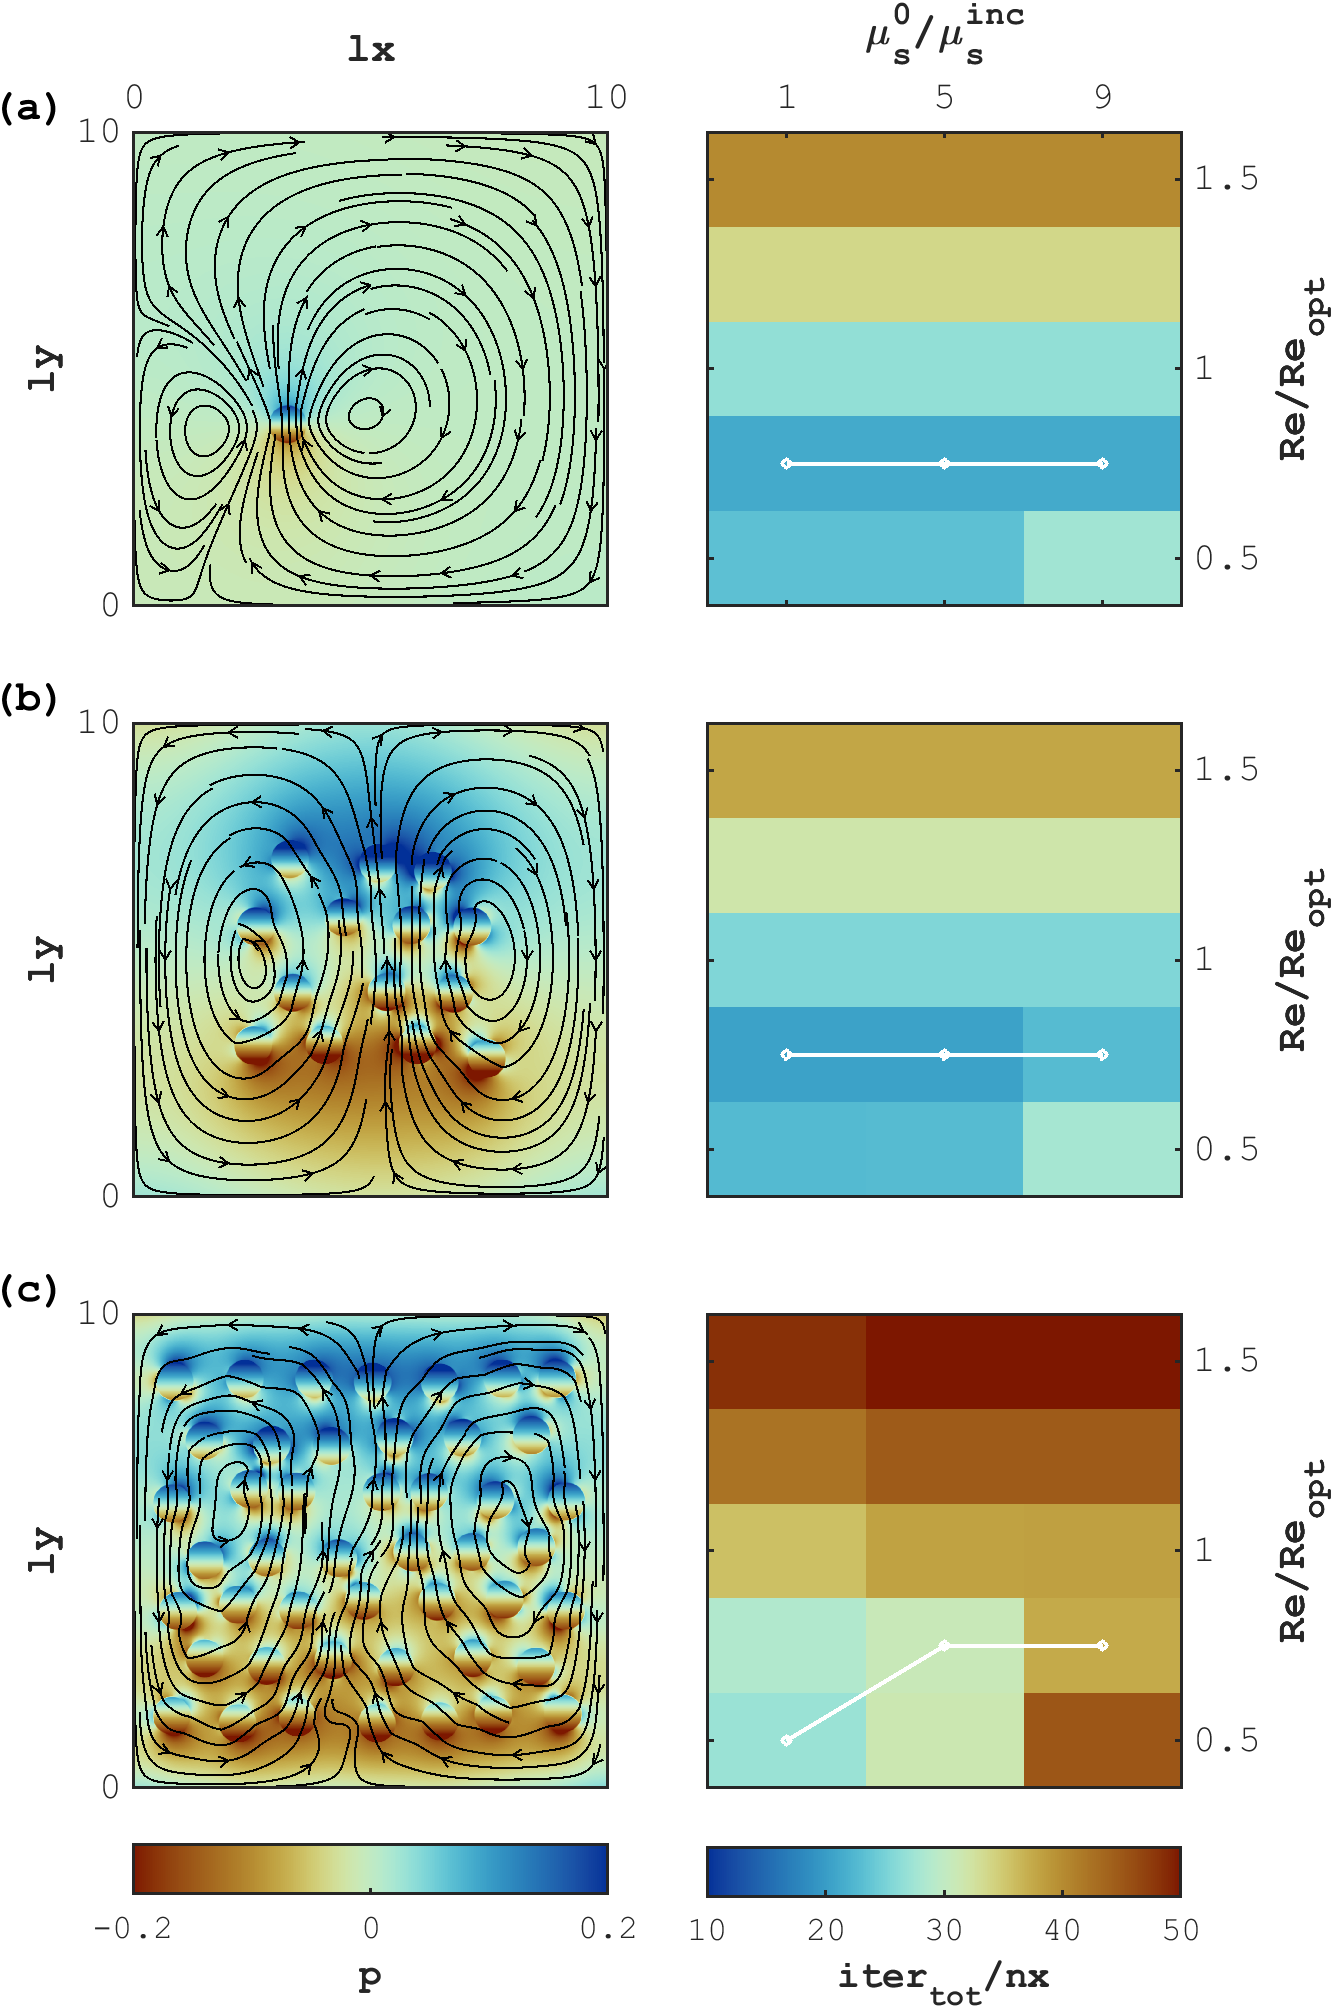
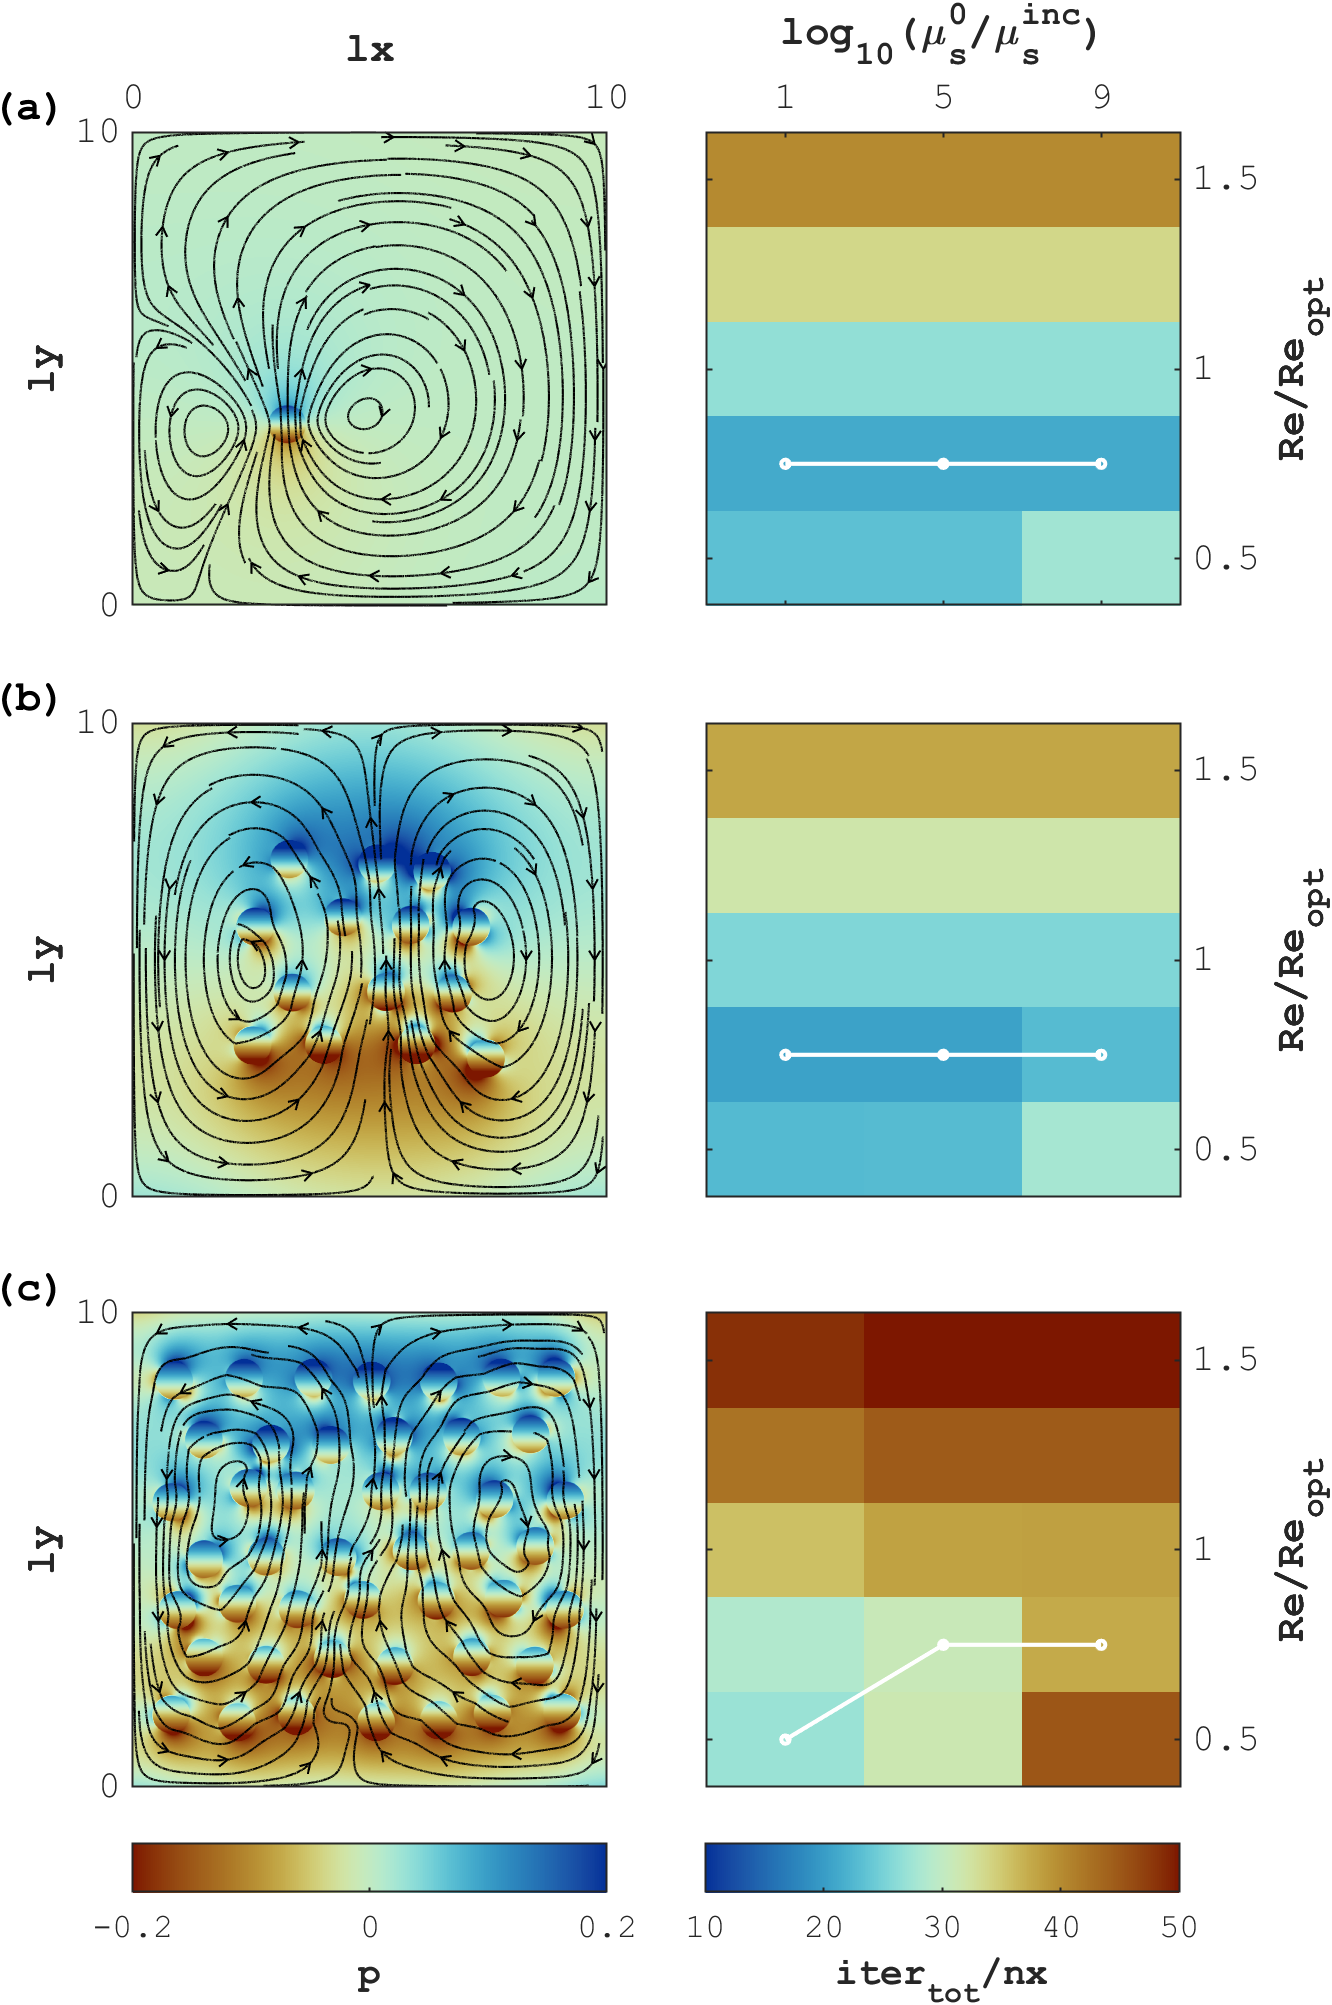
Fix figure title

diff --git a/visu/viz_stokes_param.m b/visu/viz_stokes_param.m
@@ -57,7 +57,7 @@ for ifig = 1:numel(sims)
         hold off
         axis square;caxis([10 50]);
         yticks(0.5:0.5:1.5);ylabel('\bfRe/Re_{opt}')
-        if iSub == 1;xticks(vrs);xlabel('\bf\mu^{0}_s/\mu^{inc}_s');else;xticks([]); end
+        if iSub == 1;xticks(vrs);xlabel('\bflog_{10}(\mu^{0}_s/\mu^{inc}_s)');else;xticks([]); end
         if iSub == numel(subs);cb2=colorbar('Location','southoutside');cb2.Label.String='\bfiter_{tot}/nx';cb2.Label.FontSize=fs;end
         set(gca,'FontName','Courier','FontSize',fs,'YDir','normal','XAxisLocation','top','YAxisLocation','right')
         colormap(gca,flip(roma))
